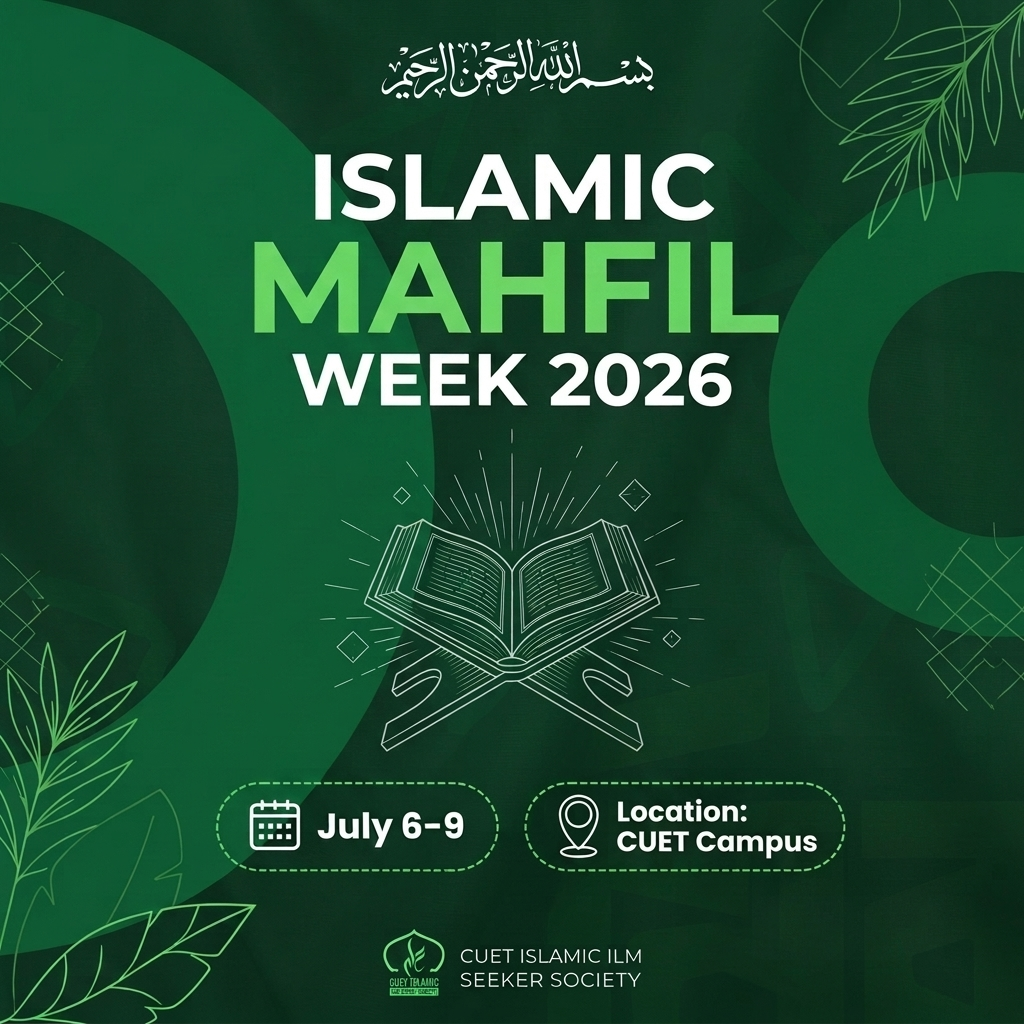
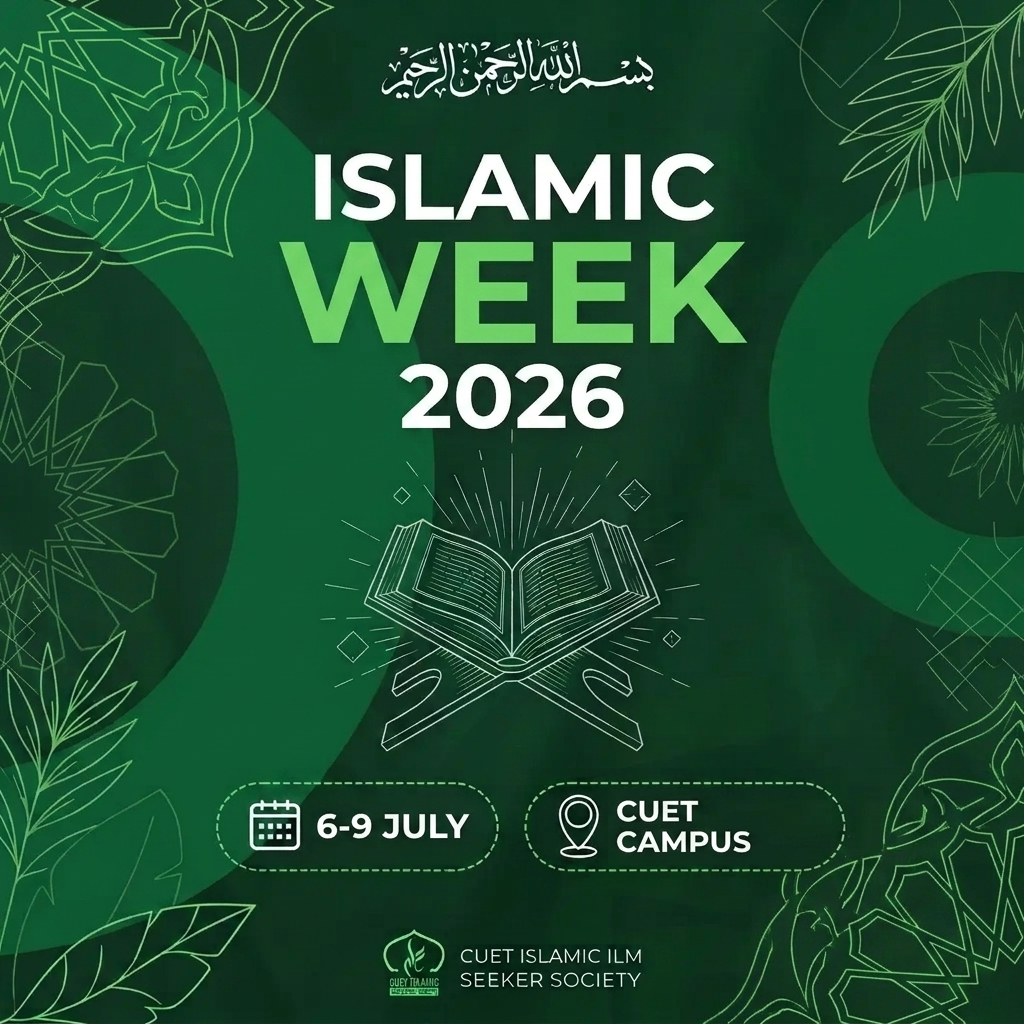
feat: add poster presentation segment data and assets

diff --git a/src/lib/data.ts b/src/lib/data.ts
@@ -65,6 +65,19 @@ export const CURRENT_EVENT: CIISSEvent = {
       ],
     },
     {
+      id: "poster-presentation",
+      slug: "poster-presentation",
+      title: "Poster Presentation",
+      date: "Jul 8, 2026",
+      description:
+        "An engaging platform for students to visually present their research and insights connecting Islamic principles with modern engineering, science, and societal issues.",
+      details: [
+        "Interactive poster displays",
+        "Q&A with judges and visitors",
+        "Awards for most innovative presentations",
+      ],
+    },
+    {
       id: "book-fair",
       slug: "book-fair",
       title: "Book Fair",